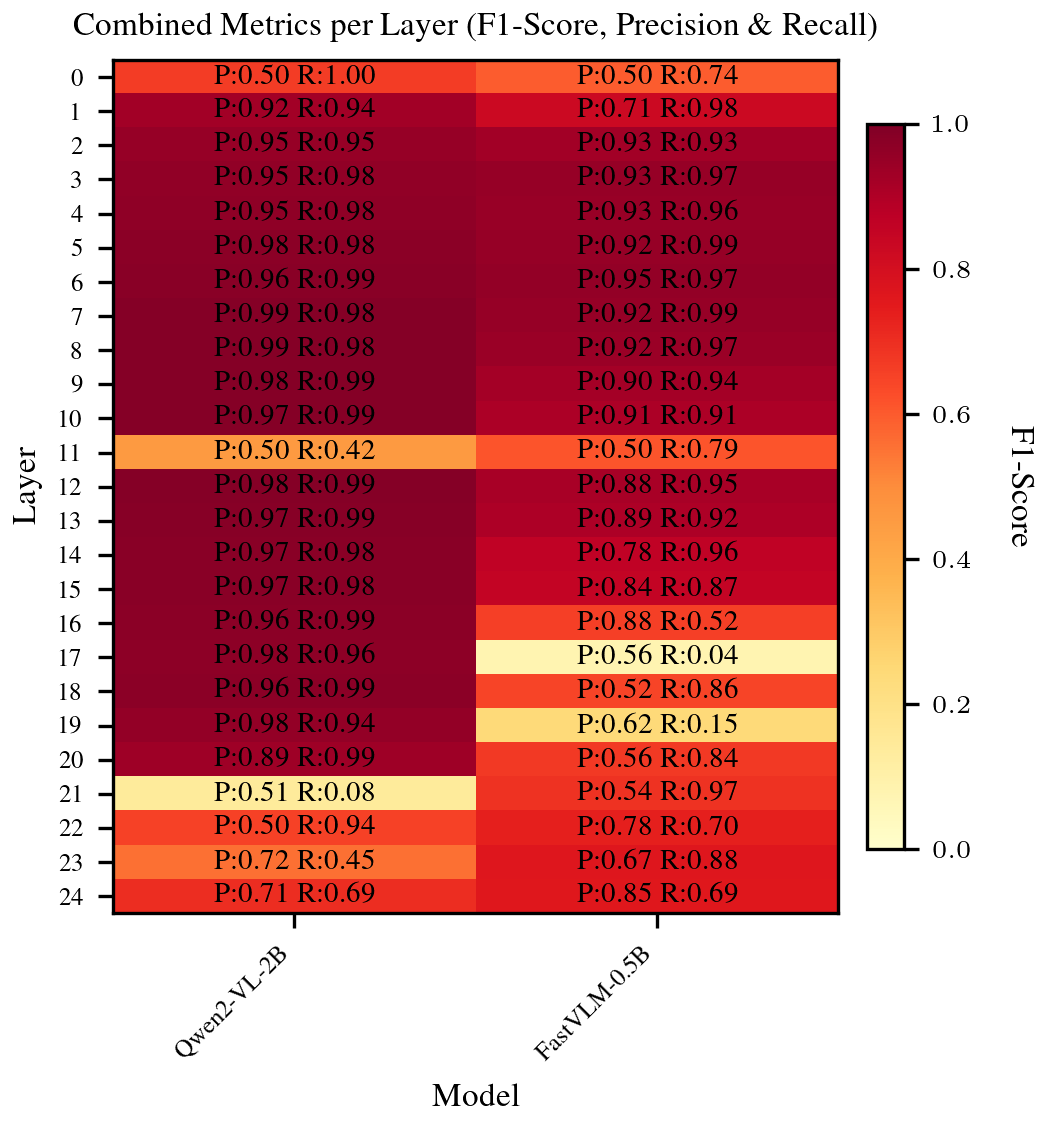
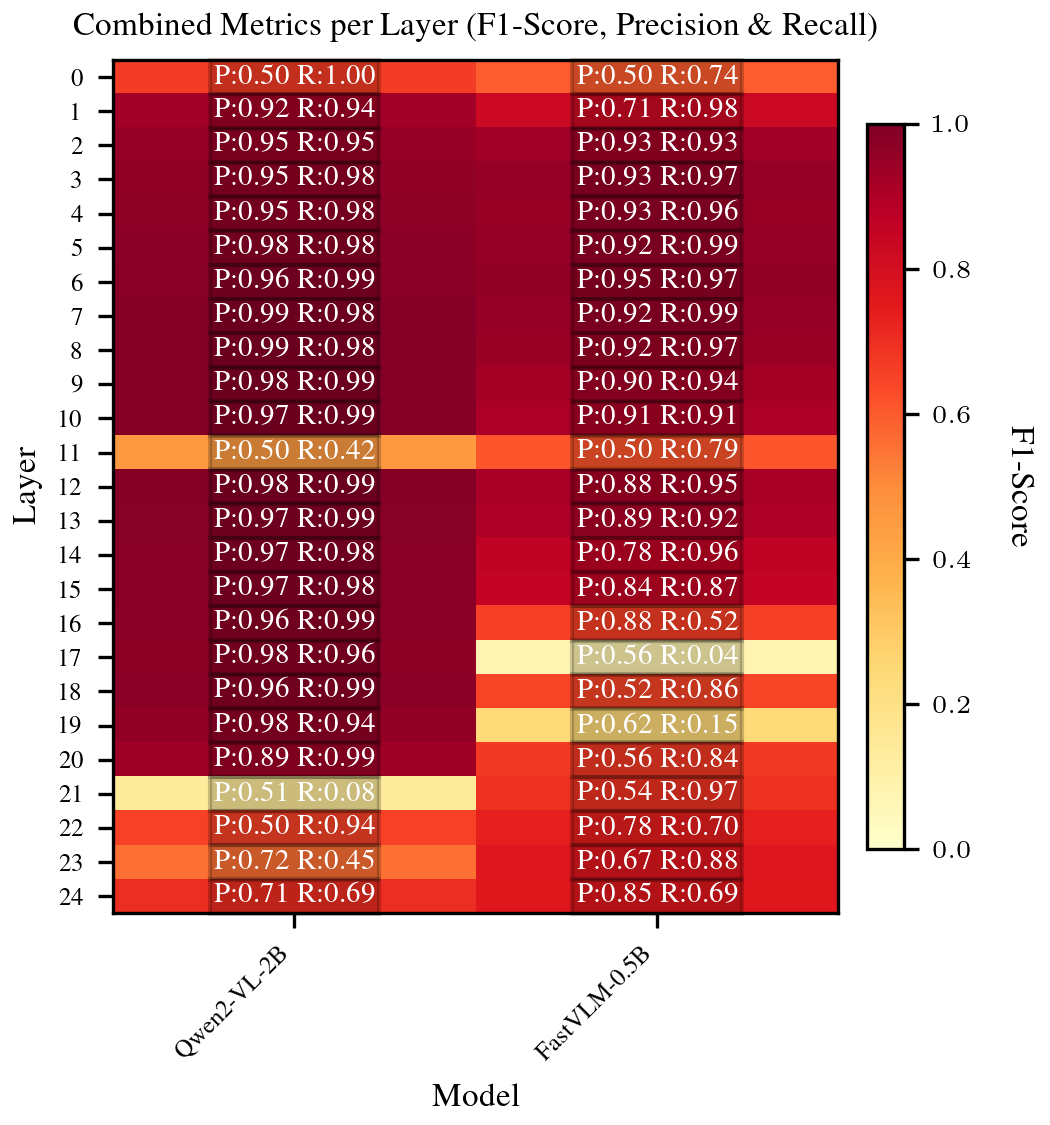
updated plots

Changed region(s): [[0.5181, 0.0311, 0.7314, 0.8089], [0.1829, 0.0311, 0.3657, 0.8089]]

diff --git a/experiments/plot_caption_experiment.py b/experiments/plot_caption_experiment.py
@@ -212,7 +212,6 @@ def aggregate_model_accuracies(
     return layer_labels, aligned
 
 
-# ---------------------- NEW: generic aggregation + heatmap plotting ----------------------
 
 def aggregate_model_metric(
     base_dir: Path,
@@ -306,7 +305,7 @@ def plot_combined_metric_heatmap(
             if np.isfinite(prec) and np.isfinite(recall):
                 # MODIFIED: Text is now in a single line, font size slightly adjusted
                 text_label = f"P:{prec:.2f} R:{recall:.2f}"
-                ax.text(j, i, text_label, ha="center", va="center", fontsize=7, color='black')
+                ax.text(j, i, text_label, ha="center", va="center", fontsize=7, color='white',  bbox=dict(facecolor="black", alpha=0.2, boxstyle="square,pad=0.15"))
 
     fig.savefig(save_path / filename)
     plt.close(fig)
